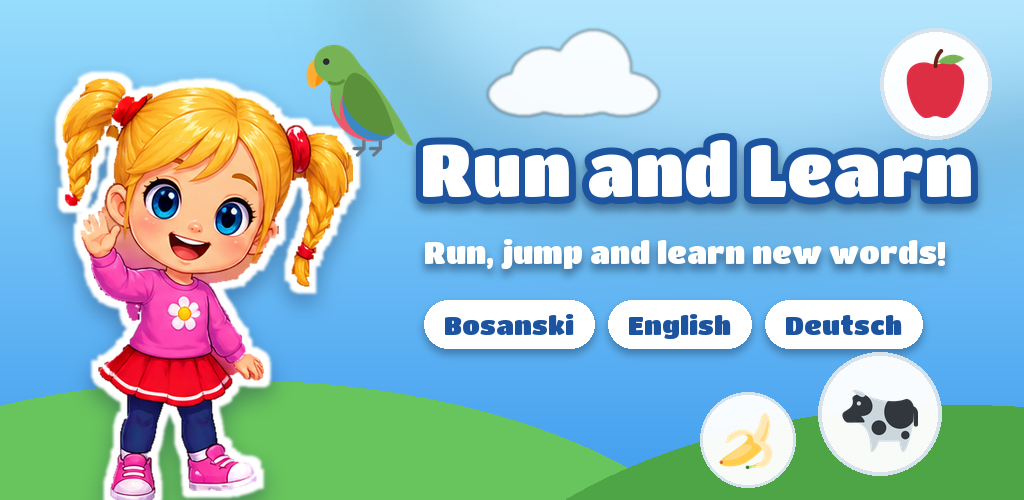
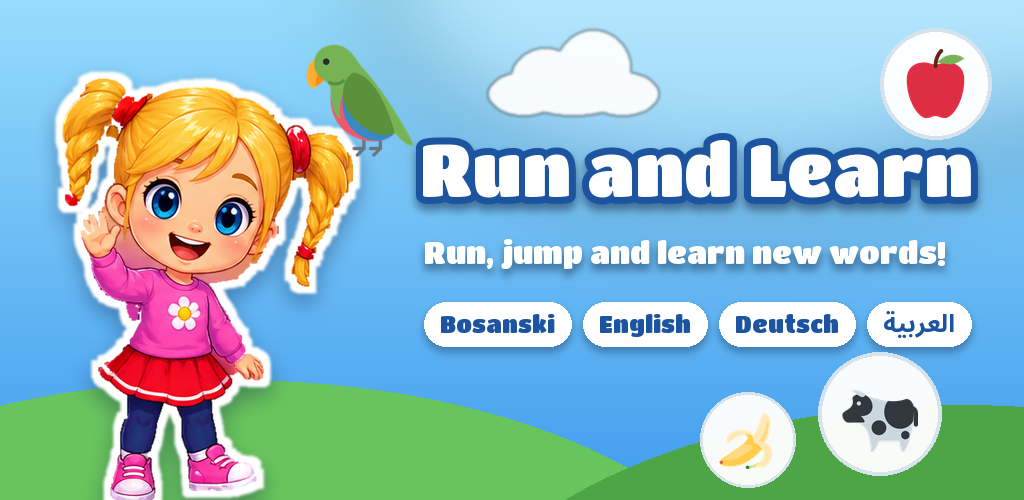
Build 7 without foreground-service permissions; 1.3 feature graphics
- ASTC textures only: two formats made Unity use Play Asset Delivery,
  whose library added FOREGROUND_SERVICE and FOREGROUND_SERVICE_DATA_SYNC
  (Play wants a declaration for them). Build 7 (1.3.0, versionCode 7) has
  only VIBRATE again, one base module, 78.7 MB, ~53 MB to download.
- Feature graphics per store language (en, hr, de) with Arabic among the
  languages and a translated tagline.
- Privacy policy text: the optional child name in profiles stays on the
  device; diplomas and worksheets go to the gallery only when shared;
  coins also unlock outfits.

Changed region(s): [[0.4062, 0.6, 0.9688, 0.72]]

diff --git a/Store/privacy-policy.html b/Store/privacy-policy.html
@@ -14,18 +14,18 @@
 </head>
 <body>
 <h1>Run and Learn</h1>
-<p class="muted">Rukajja Games · Effective date: 23 October 2026</p>
+<p class="muted">Rukajja Games · Effective date: 23 October 2026 · Updated: 17 November 2026</p>
 <nav><a href="#en">English</a><a href="#bs">Bosanski</a><a href="#de">Deutsch</a></nav>
 
 <section id="en">
 <h2>Privacy Policy</h2>
 <p>Run and Learn is a learning game for children. We built it so that it does not collect anything about your child.</p>
 <ul>
-  <li><strong>No personal data is collected.</strong> The game does not ask for a name, e-mail, age, location, photos, contacts or any other personal information.</li>
+  <li><strong>No personal data is collected.</strong> The game does not ask for an e-mail, age, location, photos, contacts or any other personal information. In the parents' corner a parent may type a child's first name (optional), to tell children's profiles apart and to print it on a diploma. The name stays only on the device and is never sent anywhere.</li>
   <li><strong>No internet connection.</strong> The game works completely offline and does not request permission to use the internet. Nothing is sent from the device to us or to anyone else.</li>
   <li><strong>No ads, no analytics, no tracking.</strong> The game contains no advertising, no analytics or crash-reporting tools, and no third-party SDKs that collect data.</li>
-  <li><strong>No purchases with real money.</strong> Coins in the game are earned by playing and can only unlock characters inside the game.</li>
-  <li><strong>Saved progress stays on the device.</strong> Learned words, stars, coins and settings are stored only on the device so the game remembers where your child stopped. Uninstalling the game deletes them.</li>
+  <li><strong>No purchases with real money.</strong> Coins in the game are earned by playing and can only unlock characters and outfits inside the game.</li>
+  <li><strong>Saved progress stays on the device.</strong> Learned words, stars, coins, children's profiles and settings are stored only on the device so the game remembers where your child stopped. Uninstalling the game deletes them. Diplomas and worksheets are made on the device; when a parent taps "Save and share", the picture is placed in the phone's gallery and Android's share menu opens, and what happens next (printing, sending) is the parent's choice.</li>
   <li><strong>Permissions.</strong> The only permission the game uses is vibration, for gentle feedback, which can be turned off in Settings.</li>
 </ul>
 <p>Because no data is collected, there is nothing for us to share, sell or delete. If this ever changes, we will update this page and the Google Play listing before the change takes effect.</p>
@@ -36,11 +36,11 @@
 <h2>Politika privatnosti</h2>
 <p>Run and Learn je igra za učenje namijenjena djeci. Napravljena je tako da o vašem djetetu ne prikuplja ništa.</p>
 <ul>
-  <li><strong>Ne prikupljaju se lični podaci.</strong> Igra ne traži ime, e-mail, godine, lokaciju, fotografije, kontakte niti bilo koji drugi lični podatak.</li>
+  <li><strong>Ne prikupljaju se lični podaci.</strong> Igra ne traži e-mail, godine, lokaciju, fotografije, kontakte niti bilo koji drugi lični podatak. U kutku za roditelje roditelj može upisati ime djeteta (nije obavezno), da razlikuje profile djece i da ga ispiše na diplomi. Ime ostaje samo na uređaju i nikad se nikome ne šalje.</li>
   <li><strong>Bez interneta.</strong> Igra radi potpuno bez interneta i ne traži dozvolu za internet. Ništa se ne šalje s uređaja ni nama ni bilo kome drugom.</li>
   <li><strong>Bez reklama, analitike i praćenja.</strong> U igri nema reklama, alata za analitiku ili prijavu grešaka, niti dodataka trećih strana koji prikupljaju podatke.</li>
-  <li><strong>Bez kupovine pravim novcem.</strong> Novčići u igri se zarađuju igranjem i služe samo za otključavanje likova u igri.</li>
-  <li><strong>Napredak ostaje na uređaju.</strong> Naučene riječi, zvjezdice, novčići i postavke čuvaju se samo na uređaju. Brisanjem igre brišu se i oni.</li>
+  <li><strong>Bez kupovine pravim novcem.</strong> Novčići u igri se zarađuju igranjem i služe samo za otključavanje likova i odjeće u igri.</li>
+  <li><strong>Napredak ostaje na uređaju.</strong> Naučene riječi, zvjezdice, novčići, profili djece i postavke čuvaju se samo na uređaju. Brisanjem igre brišu se i oni. Diplome i radni listovi prave se na uređaju; kad roditelj dodirne „Sačuvaj i podijeli“, slika se stavlja u galeriju telefona i otvara se Androidov meni za dijeljenje, a šta dalje (štampa, slanje) bira roditelj.</li>
   <li><strong>Dozvole.</strong> Igra koristi samo vibraciju, koja se može isključiti u postavkama.</li>
 </ul>
 <p>Pošto se podaci ne prikupljaju, nemamo šta dijeliti, prodavati ili brisati. Ako se to ikada promijeni, prvo ćemo ažurirati ovu stranicu i opis na Google Playu.</p>
@@ -51,11 +51,11 @@
 <h2>Datenschutzerklärung</h2>
 <p>Run and Learn ist ein Lernspiel für Kinder. Es wurde so gebaut, dass es keine Daten über Ihr Kind erhebt.</p>
 <ul>
-  <li><strong>Keine personenbezogenen Daten.</strong> Das Spiel fragt weder nach Name, E-Mail, Alter, Standort, Fotos, Kontakten noch nach anderen persönlichen Angaben.</li>
+  <li><strong>Keine personenbezogenen Daten.</strong> Das Spiel fragt weder nach E-Mail, Alter, Standort, Fotos, Kontakten noch nach anderen persönlichen Angaben. In der Elternecke können Eltern den Vornamen eines Kindes eingeben (freiwillig), um die Profile der Kinder zu unterscheiden und ihn auf ein Diplom zu drucken. Der Name bleibt nur auf dem Gerät und wird nie gesendet.</li>
   <li><strong>Kein Internet.</strong> Das Spiel funktioniert vollständig offline und fordert keine Internetberechtigung an. Es werden keine Daten vom Gerät gesendet.</li>
   <li><strong>Keine Werbung, keine Analyse, kein Tracking.</strong> Das Spiel enthält keine Werbung, keine Analyse- oder Absturzberichts-Tools und keine Drittanbieter-SDKs, die Daten erheben.</li>
-  <li><strong>Keine Käufe mit echtem Geld.</strong> Münzen werden durch Spielen verdient und schalten nur Spielfiguren im Spiel frei.</li>
-  <li><strong>Der Spielstand bleibt auf dem Gerät.</strong> Gelernte Wörter, Sterne, Münzen und Einstellungen werden nur auf dem Gerät gespeichert und beim Deinstallieren gelöscht.</li>
+  <li><strong>Keine Käufe mit echtem Geld.</strong> Münzen werden durch Spielen verdient und schalten nur Spielfiguren und Kleidung im Spiel frei.</li>
+  <li><strong>Der Spielstand bleibt auf dem Gerät.</strong> Gelernte Wörter, Sterne, Münzen, Kinderprofile und Einstellungen werden nur auf dem Gerät gespeichert und beim Deinstallieren gelöscht. Diplome und Arbeitsblätter entstehen auf dem Gerät; tippen Eltern auf „Speichern und teilen“, kommt das Bild in die Galerie des Telefons und das Android-Teilen-Menü öffnet sich. Was danach geschieht (Drucken, Senden), entscheiden die Eltern.</li>
   <li><strong>Berechtigungen.</strong> Das Spiel nutzt nur die Vibration, die in den Einstellungen ausgeschaltet werden kann.</li>
 </ul>
 <p>Da keine Daten erhoben werden, gibt es nichts weiterzugeben, zu verkaufen oder zu löschen. Sollte sich das ändern, aktualisieren wir zuerst diese Seite und den Google-Play-Eintrag.</p>

diff --git a/Tools/make_store_art.py b/Tools/make_store_art.py
@@ -135,7 +135,23 @@ def shadowed_text(canvas: Image.Image, xy: tuple, text: str, font: ImageFont.Fre
     ImageDraw.Draw(canvas).text(xy, text, font=font, anchor="lm", **kwargs)
 
 
-def feature_graphic() -> Image.Image:
+TAGLINES = {
+    "en": "Run, jump and learn new words!",
+    "hr": "Trči, skači i uči nove riječi!",
+    "de": "Lauf, spring und lerne neue Wörter!",
+}
+ARABIC_FONT = ROOT / "Assets" / "Resources" / "Fonts" / "NotoSansArabic-Bold.ttf"
+
+
+def arabic_label() -> str:
+    """"العربية" joined and reversed for Pillow, which draws left to right without shaping."""
+    import sys
+    sys.path.insert(0, str(ROOT / "Tools"))
+    import generate_words
+    return generate_words.shape_arabic("العربية")
+
+
+def feature_graphic(lang: str = "en") -> Image.Image:
     width, height = 1024, 500
     mask = Image.linear_gradient("L").resize((width, height))
     canvas = Image.composite(Image.new("RGBA", (width, height), (64, 156, 238)),
@@ -163,20 +179,27 @@ def feature_graphic() -> Image.Image:
     shadowed_text(canvas, (420, 168), title, title_font, fill=(255, 255, 255), stroke_width=7,
                   stroke_fill=(28, 84, 160))
 
-    tagline_font = ImageFont.truetype(str(TITLE_FONT), 30)
-    shadowed_text(canvas, (424, 252), "Run, jump and learn new words!", tagline_font, fill=(255, 255, 255))
+    tagline = TAGLINES.get(lang, TAGLINES["en"])
+    tagline_size = 30
+    while ImageFont.truetype(str(TITLE_FONT), tagline_size).getlength(tagline) > 560:
+        tagline_size -= 1
+    tagline_font = ImageFont.truetype(str(TITLE_FONT), tagline_size)
+    shadowed_text(canvas, (424, 252), tagline, tagline_font, fill=(255, 255, 255))
 
-    pill_font = ImageFont.truetype(str(TITLE_FONT), 26)
+    # The four languages to learn; Arabic in its own script (Titan One has no Arabic letters).
+    pill_font = ImageFont.truetype(str(TITLE_FONT), 23)
+    arabic_font = ImageFont.truetype(str(ARABIC_FONT), 25)
     x = 424
-    for label in ("Bosanski", "English", "Deutsch"):
-        text_width = pill_font.getlength(label)
-        box = (x, 300, x + text_width + 40, 348)
+    for label, font in (("Bosanski", pill_font), ("English", pill_font), ("Deutsch", pill_font),
+                        (arabic_label(), arabic_font)):
+        text_width = font.getlength(label)
+        box = (x, 302, x + text_width + 32, 346)
         shade = Image.new("RGBA", (width, height), (0, 0, 0, 0))
-        ImageDraw.Draw(shade).rounded_rectangle((box[0], box[1] + 5, box[2], box[3] + 5), 24, fill=(10, 30, 70, 90))
+        ImageDraw.Draw(shade).rounded_rectangle((box[0], box[1] + 5, box[2], box[3] + 5), 22, fill=(10, 30, 70, 90))
         canvas.alpha_composite(shade.filter(ImageFilter.GaussianBlur(4)))
-        ImageDraw.Draw(canvas).rounded_rectangle(box, 24, fill=(255, 255, 255))
-        ImageDraw.Draw(canvas).text((x + 20, 324), label, font=pill_font, fill=(28, 84, 160), anchor="lm")
-        x = box[2] + 14
+        ImageDraw.Draw(canvas).rounded_rectangle(box, 22, fill=(255, 255, 255))
+        ImageDraw.Draw(canvas).text((x + 16, 324), label, font=font, fill=(28, 84, 160), anchor="lm")
+        x = box[2] + 12
 
     canvas.alpha_composite(word_bubble(112), (880, 28))
     canvas.alpha_composite(word_bubble(124, COW), (818, 352))
@@ -185,8 +208,18 @@ def feature_graphic() -> Image.Image:
 
 
 def main() -> None:
+    import sys
     ICON_DIR.mkdir(parents=True, exist_ok=True)
     PLAY_DIR.mkdir(parents=True, exist_ok=True)
+
+    # One feature graphic per store language (en is also the default file name Play Console used so far).
+    feature_graphic("en").convert("RGB").save(PLAY_DIR / "feature_graphic_1024x500.png")
+    for lang in ("hr", "de"):
+        feature_graphic(lang).convert("RGB").save(PLAY_DIR / f"feature_graphic_{lang}_1024x500.png")
+
+    if "--feature-only" in sys.argv:
+        print("feature graphics written (en, hr, de)")
+        return
 
     big = icon(512)
     big.save(ICON_DIR / "icon_512.png")
@@ -196,8 +229,7 @@ def main() -> None:
     back.save(ICON_DIR / "adaptive_background.png")
     front.save(ICON_DIR / "adaptive_foreground.png")
 
-    feature_graphic().convert("RGB").save(PLAY_DIR / "feature_graphic_1024x500.png")
-    print("icon, adaptive layers and feature graphic written")
+    print("icon, adaptive layers and feature graphics written")
 
 
 if __name__ == "__main__":

diff --git a/Assets/Editor/AndroidSetup.cs b/Assets/Editor/AndroidSetup.cs
@@ -38,7 +38,7 @@ namespace FootballRunner.EditorTools
         public const string VersionName = "1.3.0";
 
         /// <summary>Play's internal number; every upload must be higher than the last.</summary>
-        public const int VersionCode = 6;
+        public const int VersionCode = 7;
 
         [MenuItem("Tools/Football Runner/4 - Configure Android")]
         public static void Configure()
@@ -91,10 +91,12 @@ namespace FootballRunner.EditorTools
 
             // ASTC is several times smaller in memory than ETC2 for the large sprites
             // (and ETC2 leaves sprites whose size is not a multiple of 4 uncompressed).
-            // ETC2 stays as the fallback: the App Bundle carries both and Play gives
-            // each phone the one its GPU supports.
-            PlayerSettings.Android.textureCompressionFormats =
-                new[] { TextureCompressionFormat.ASTC, TextureCompressionFormat.ETC2 };
+            // ASTC only: two formats make Unity move the data into Play Asset Delivery
+            // packs, whose Google library adds FOREGROUND_SERVICE_DATA_SYNC, a permission
+            // Play asks a declaration for and a children's game does not need (1.3.0 build 6
+            // had it). Practically every phone since 2014 decodes ASTC; the rare older GPU
+            // still runs the game, Unity unpacks the textures on load.
+            PlayerSettings.Android.textureCompressionFormats = new[] { TextureCompressionFormat.ASTC };
 
             // Unity 6 lets every plan hide the Unity logo screen; the game opens on its menu sooner.
             PlayerSettings.SplashScreen.show = false;

diff --git a/Store/objava-1.3.md b/Store/objava-1.3.md
@@ -1,6 +1,6 @@
 # Run and Learn 1.3.0 (versionCode 6): objava na Google Play
 
-Fajl za upload: `Builds\RunAndLearn-1.3.0-6.aab` (potpisan ključem za upload).
+Fajl za upload: `Builds\RunAndLearn-1.3.0-7.aab` (potpisan ključem za upload; build 7 zamjenjuje 6, vidi niže).
 Bilješke o izdanju: `Store/release-notes-1.3.0.md` (en, hr = bosanski tekst, de; svaka ispod 500 znakova).
 Opisi: `Store/listing.md`. Snimke: `Store/play/screenshots/<en|hr|de>/` (telefon) i
 `Store/play/tablet/<en|hr|de>/` (tablet 7" i 10").
@@ -20,16 +20,22 @@ i 12 testera zatvorenog testiranja ništa ne primijeti.
 Stanje 17. 11. 2026 u 10:51: build 6 (1.3.0) je OBJAVLJEN u internom testiranju (link
 https://play.google.com/apps/internaltest/4701732897561276308, lista "ProfitPilot Testeri").
 
+Build 7 (17. 11.): isti 1.3.0, ali samo ASTC teksture, pa nema Googleovih paketa resursa ni dozvola
+FOREGROUND_SERVICE / FOREGROUND_SERVICE_DATA_SYNC koje je build 6 dobio (Play bi za produkciju tražio
+izjavu za njih). Jedina dozvola je vibracija, kao u 1.2.1. U produkciju ide build 7.
+
 ## 2. Kad interni test prođe
 
 Prijava za produkciju: odgovori su pripremljeni u `Store/prijava-za-produkciju.md`.
 
 - Ako je odobren pristup produkciji (14 dana s 12 testera, oko 18. 11.): Produkcija → Napravi novo
-  izdanje → "Dodaj iz biblioteke" (isti build 6) → bilješke → slanje na pregled.
+  izdanje → "Dodaj iz biblioteke" (build 7) → bilješke → slanje na pregled.
 - Ako još nije: isti build u Zatvoreno testiranje (Alpha), da testeri dobiju 1.3.
 
 ## 3. Stranica u trgovini (može odmah, neovisno o buildu)
 
 - Opisi iz `Store/listing.md` (en-US, hr, de-DE): kratki i puni opis.
+- Naslovna slika (1024x500) po jeziku: `Store/play/feature_graphic_1024x500.png` (en),
+  `feature_graphic_hr_1024x500.png`, `feature_graphic_de_1024x500.png` (s arapskim i lokalnim sloganom).
 - Snimke za telefon zamijeniti novima; dodati snimke za tablet 7" i 10" (isti set za oba).
 - Arapski je provjeren (Adnan, 17. 11. 2026); lista `Store/arabic-review.md` je sva "provjereno".
